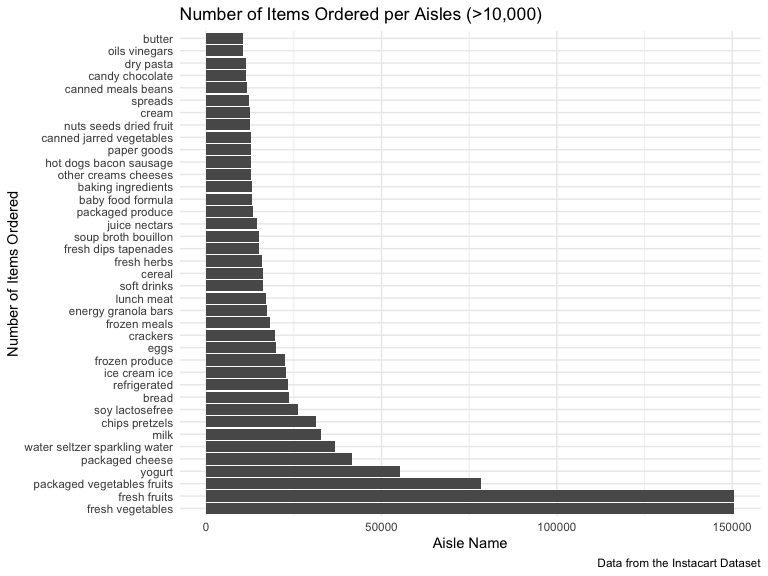
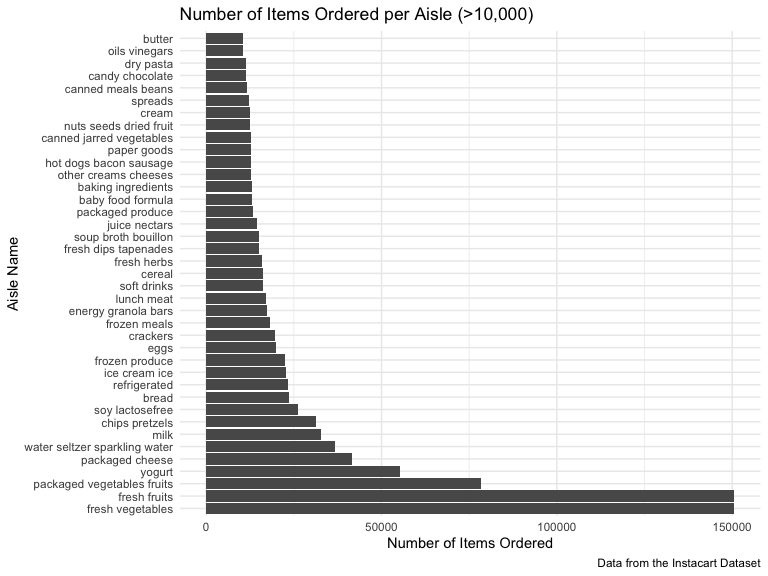
Created a subset title Edited the titles of a few graphs

Changed region(s): [[0.0, 0.3438, 0.0312, 0.625], [0.5, 0.9375, 0.7188, 0.9688], [0.5938, 0.0, 0.7188, 0.0312]]

diff --git a/p8105_hw3_10142019.md b/p8105_hw3_10142019.md
@@ -173,9 +173,9 @@ cleaned_instacart %>%
   ggplot(aes(x = aisle, y = n)) +
   geom_bar(stat = "identity") + coord_flip() +
   labs(
-    title = "Number of Items Ordered per Aisles (>10,000)",
-    x = "Number of Items Ordered",
-    y = "Aisle Name", 
+    title = "Number of Items Ordered per Aisle (>10,000)",
+    x = "Aisle Name",
+    y = "Number of Items Ordered", 
     caption = "Data from the Instacart Dataset"
     )
 ```
@@ -1494,7 +1494,7 @@ aggregate_accel_data =
   summarize(total_activity = sum(activity_count))
 
 aggregate_accel_data %>%
-    knitr::kable(caption = "Total Activity (mean minuutes) Count in a 24-Hour Period for Five Weeks") %>%
+    knitr::kable(caption = "Total Activity (mean minutes) Count for Each Day of the Dataset") %>%
   kable_styling(bootstrap_options = c("striped", "condensed", font_size = 12))
 ```
 
@@ -1502,8 +1502,8 @@ aggregate_accel_data %>%
 
 <caption>
 
-Total Activity (mean minuutes) Count in a 24-Hour Period for Five
-Weeks
+Total Activity (mean minutes) Count for Each Day of the
+Dataset
 
 </caption>
 
@@ -2538,7 +2538,7 @@ accel_data %>%
   ggplot(aes(x = day, y = average_activity, group = week, color = week)) +
   geom_line() +
   labs(
-    title = "Physicial Activity of a 63-year-old Male \nAcross Five Weeks by Day of the Week",
+    title = "Physicial Activity of a 63-year-old Male Across Five Weeks by Day of the Week",
     x = "Day of the Week",
     y = "Activity Counts",
     caption = "Data from the Accelerometer Dataset")
@@ -2561,7 +2561,7 @@ accel_data %>%
   ggplot(aes(x = week, y = average_activity, group = day, color = day)) +
   geom_line() +
   labs(
-    title = "Physicial Activity of a 63-year-old Male \nAcross the Days of the Week over Five Weeks",
+    title = "Physicial Activity of a 63-year-old Male Across the Days of the Week over Five Weeks",
     x = "Week",
     y = "Activity Counts",
     caption = "Data from the Accelerometer Dataset")
@@ -2581,7 +2581,7 @@ accel_data %>%
   ggplot(aes(x = minute_of_day, y = activity_count, color = day_id)) +
   geom_line() +
   labs(
-    title = "Physicial Activity of a 63-year-old Male in a 24-Hour Day Over 5 Weeks",
+    title = "Physicial Activity of a 63-year-old Male in a 24-Hour Day Across 5 Weeks",
     x = "Minute of a 24-Hour Day",
     y = "Activity Counts",
     caption = "Data from the Accelerometer Dataset")
@@ -2730,6 +2730,8 @@ hour_accel_data %>%
     fairly absent level of activity from midnight to 4 am when it is
     assumed this man is
 sleeiping.
+
+## Extra Plots
 
 ### I wanted to get a better sense of what was happening to this man’s activity levels across each hour of the day, on each day of the week so I plotting the hour of the day against the activity count (which I divided by 1000 to have a legible x-axis) and then used `facet_grid` to create a seven-panel plot of the seven days of the week:
 
